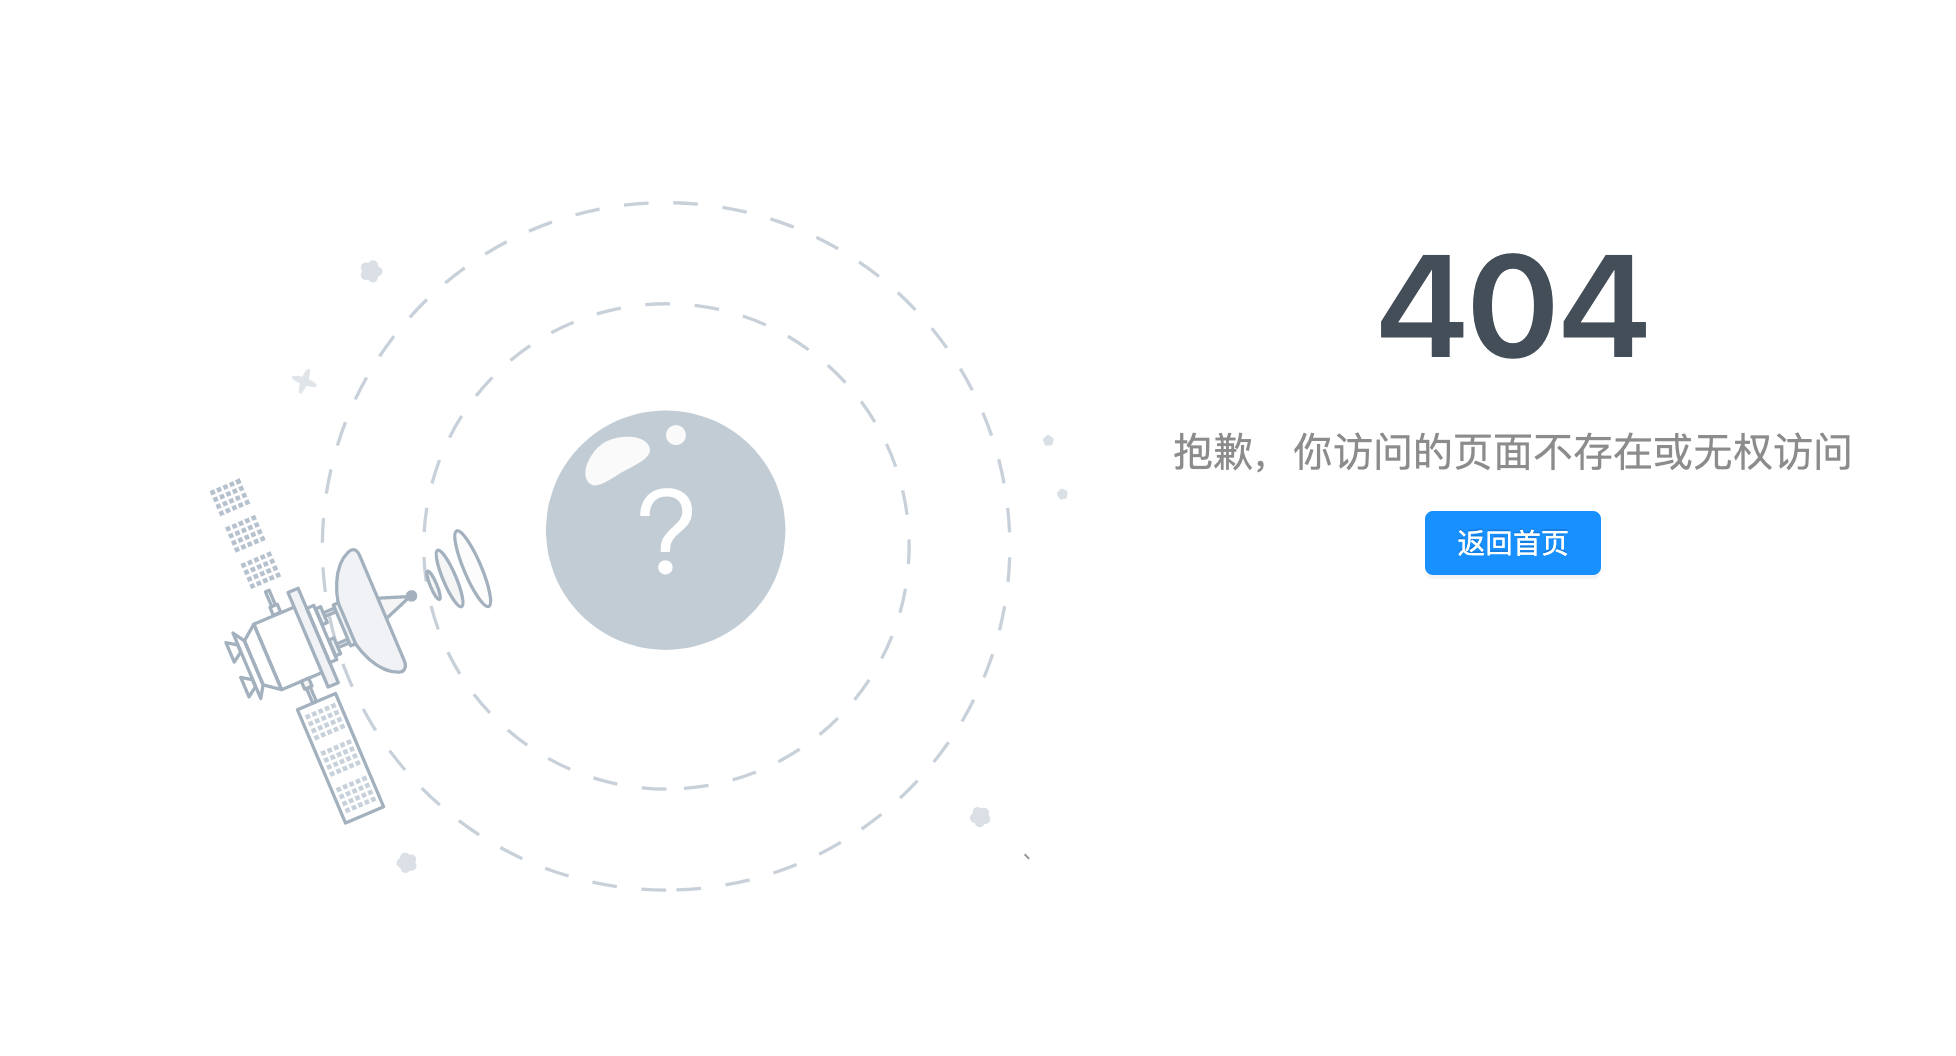
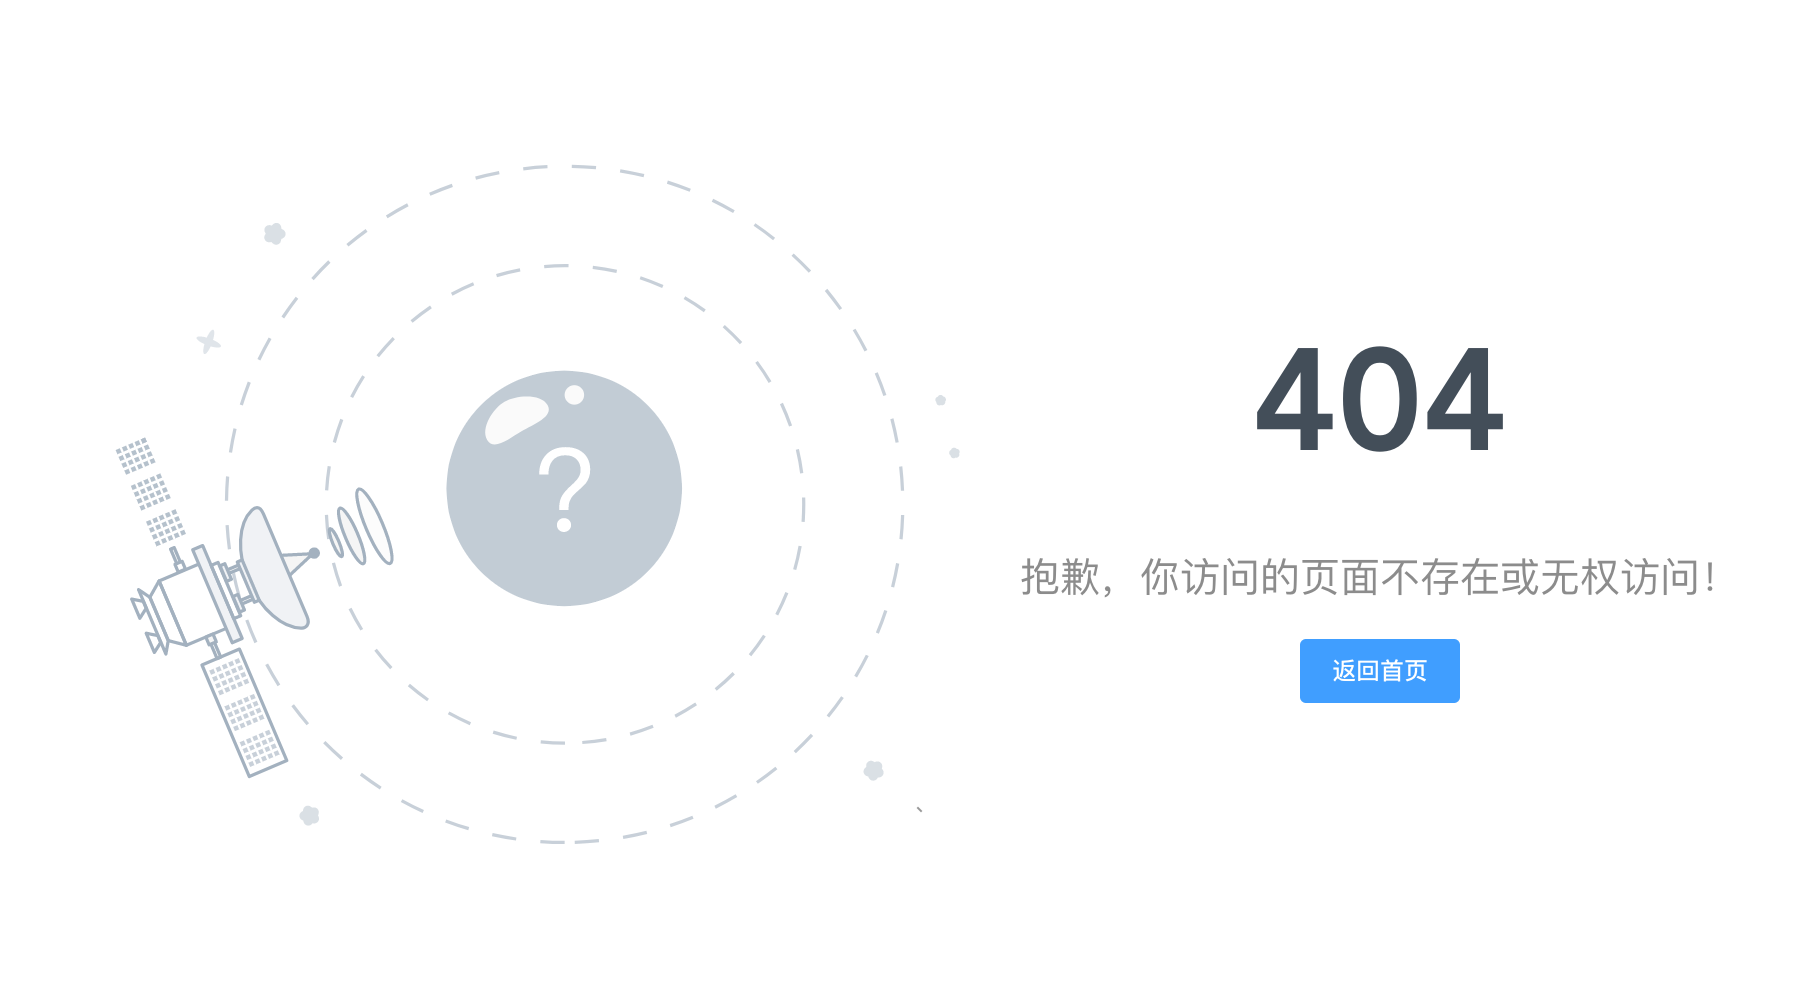
fix bug

diff --git a/src/packages/xxWeb-box/assets/css/403/403-2.less b/src/packages/xxWeb-box/assets/css/403/403-2.less
@@ -11,15 +11,43 @@ html,body{
   padding:0;
   justify-content: center;
   .no-authority-2{
-    display: inline-flex;
+    flex-flow: column;
     align-items: center;
     margin: 0 auto;
-    margin-top: 150px;
+    position: relative;
+    width: 650px;
+    top: 50%;
+    transform: translateY(-50%);
     .img{
       background: url("../../imgs/403-2.png") no-repeat center center;
       width: 700px;
       height: 300px;
-      background-size: contain
+      background-size: contain;
+      display: block;
+    }
+    .content{
+      text-align: center;
+      .h1{
+        color: #434e59;
+        font-size: 48px;
+        font-weight: 600;
+        line-height: 48px;
+        margin-bottom: 24px;
+      }
+      .desc{
+        color: rgba(0,0,0,.45);
+        font-size: 20px;
+        line-height: 28px;
+        margin-bottom: 24px;
+      }
+      .action{
+        .btn{
+          width: 150px;
+          height: 46px;
+          border-radius: 46px;
+          box-shadow: 0px 3px 9px #46a1f88c;
+        }
+      }
     }
   }
 }

diff --git a/src/packages/xxWeb-box/assets/css/404/404-2.less b/src/packages/xxWeb-box/assets/css/404/404-2.less
@@ -11,14 +11,15 @@ html,body{
   padding:0;
   justify-content: center;
   .not-found-2{
-    display: inline-flex;
-    align-items: unset;
-    margin: 0 auto;
-    margin-top: 150px;
+    margin: 0px auto;
+    display: flex;
+    width: 900px;
+    top: 50%;
+    position: relative;
+    transform: translateY(-50%);
     .img,.content{
       display: inline-block;
     }
-
     .img{
       background: url("../../imgs/404-2.svg") no-repeat center center;
       width: 430px;
@@ -26,11 +27,16 @@ html,body{
       padding-right: 52px;
     }
     .content{
+      text-align: center;
+      display: inline-flex;
+      flex-direction: column;
+      align-items: center;
+      justify-content: center;
       h1{
         color: #434e59;
         font-size: 72px;
         font-weight: 600;
-        line-height: 72px;
+        margin: 0;
         margin-bottom: 24px;
       }
       .desc{

diff --git a/src/packages/xxWeb-box/components/error/403/NoAuthority2.vue b/src/packages/xxWeb-box/components/error/403/NoAuthority2.vue
@@ -3,6 +3,15 @@
     <div class="no-authority-2">
       <slot>
         <div class="img"></div>
+        <div class="content">
+          <h1 class="h1">{{code}}</h1>
+          <div class="desc">
+            {{text}}
+          </div>
+          <div class="action">
+            <Button class="btn" type="primary" v-if="show.home" @click="goHome">返回首页</Button>
+          </div>
+        </div>
       </slot>
     </div>
   </div>
@@ -17,11 +26,11 @@ export default {
   props: {
     code: {
       type: String,
-      default: '403'
+      default: '抱歉'
     },
     text: {
       type: String,
-      default: '抱歉，你无权访问！'
+      default: '你无权访问次页面，请联系管理员！'
     },
     show: {
       type: Object,

diff --git a/src/views/Page/ErrorList.vue b/src/views/Page/ErrorList.vue
@@ -31,7 +31,7 @@ export default {
         {title:"default-dark",cover:require('../../assets/imgs/404/404dark.png'),desc:'design by <a href="">default-dark</a>',path:'/error/2'},
         {title:"jeecg-404",cover:require('../../assets/imgs/404/404-2.png'),desc:'design by <a href="">jeecg</a>',path:'/error/3'},
         {title:"jeecg-403",cover:require('../../assets/imgs/403/403-1.png'),desc:'design by <a href="">jeecg</a>',path:'/error/4'},
-        {title:"Access-Denied",cover:require('../../assets/imgs/403/403-1.png'),desc:'design by <a href="">dribbble</a>',path:'/error/5'},
+        {title:"Access-Denied",cover:require('../../assets/imgs/403/403-2.png'),desc:'design by <a href="">dribbble</a>',path:'/error/5'},
       ]
     }
   },

diff --git a/src/packages/xxWeb-box/assets/css/403/403-1.less b/src/packages/xxWeb-box/assets/css/403/403-1.less
@@ -11,10 +11,12 @@ html,body{
   padding:0;
   justify-content: center;
   .no-authority-1{
-    display: inline-flex;
-    align-items: unset;
-    margin: 0 auto;
-    margin-top: 150px;
+    margin: 0px auto;
+    display: flex;
+    width: 600px;
+    top: 50%;
+    position: relative;
+    transform: translateY(-50%);
     .img,.content{
       display: inline-block;
     }
@@ -26,6 +28,7 @@ html,body{
       padding-right: 52px;
     }
     .content{
+      text-align: center;
       h1{
         color: #434e59;
         font-size: 72px;
